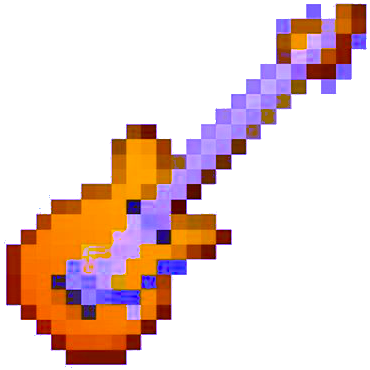
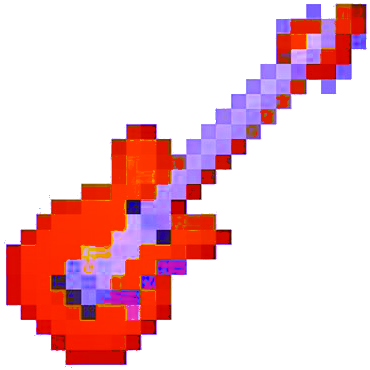
Note prefab is red with unlocked guitar, blue otherwise. Zombie takes damage based on the guitarDmg variable stored in PlayerControl script which is accessed in ZombieBehaviour. Collison with Zombie now hurts the player and knocks back, need to program the actual zombie attack still and then I sugge

diff --git a/Go Johnny Go/Assets/Scripts/PlayerControl.cs b/Go Johnny Go/Assets/Scripts/PlayerControl.cs
@@ -38,8 +38,6 @@ public class PlayerControl : MonoBehaviour {
 	public int health;
 	private int MAX_HEALTH;
 	public int guitarType;
-	public int playerDmg;
-
 
 	public float knockback;
 	public float knockbackLength;
@@ -56,8 +54,10 @@ public class PlayerControl : MonoBehaviour {
 	private Image healthUI;
 
 	private SpriteRenderer guitar_renderer;
+	private SpriteRenderer note_renderer;
 	public Sprite guitarA;
 	public Sprite guitarB;
+	public int guitarDmg;
 
 	// Use this for initialization
 	void Start () {
@@ -73,13 +73,16 @@ public class PlayerControl : MonoBehaviour {
 		//selecting guitartype for player sprite and damage
 		guitarType = PlayerPrefs.GetInt ("GuitarType");
 		guitar_renderer = guitar.GetComponent<SpriteRenderer> ();
-		if (guitarType == 0) {
-			playerDmg = 1;
-			guitar_renderer.sprite = guitarA;
+		note_renderer = notePrefab.GetComponent<SpriteRenderer> ();
 
+		if (guitarType == 0) {
+			guitar_renderer.sprite = guitarA;
+			guitarDmg = 1;
+			note_renderer.color = Color.blue;
 		} else {
-			playerDmg = 2;
 			guitar_renderer.sprite = guitarB;
+			guitarDmg = 2;
+			note_renderer.color = Color.red;
 		}
 	}
 	
@@ -129,7 +132,7 @@ public class PlayerControl : MonoBehaviour {
 			//myAnimator.SetTrigger ("strum");
 			guitar.GetComponentInChildren<ParticleSystem>().Emit(500);
 			//guitar.GetComponent<ParticleSystem>().Emit(500);
-			StrumNote (0);
+			StrumNote ();
 		}
 		if (isGrounded && jump) {
 			isGrounded = false;
@@ -174,8 +177,9 @@ public class PlayerControl : MonoBehaviour {
 		}
 	}
 
-	public void StrumNote(int value){
+	public void StrumNote(){
 		GameObject temp = (GameObject)Instantiate (notePrefab, guitar.GetComponentInChildren<ParticleSystem>().transform.position, Quaternion.identity);
+
 		if (facingRight) {
 			temp.GetComponent<notes> ().Initialize(Vector2.right);
 		} else {

diff --git a/Go Johnny Go/Assets/Black Knight/ZombieBehaviour.cs b/Go Johnny Go/Assets/Black Knight/ZombieBehaviour.cs
@@ -133,11 +133,23 @@ public class ZombieBehaviour : MonoBehaviour {
 	}
 
 	void OnTriggerEnter2D(Collider2D other){
+		PlayerControl playerScript = FindObjectOfType<PlayerControl>();
+		UnityStandardAssets._2D.LevelManager levelManager = FindObjectOfType<UnityStandardAssets._2D.LevelManager>();
 		if (other.tag == "Note" && health > 0) {
-			TakeDamage (1);
+			TakeDamage (playerScript.guitarDmg); //default case
 			Destroy (other.gameObject);
 		} else if (other.tag == "Player") {
-			// do damage to player
+			playerScript.health -= damage; //player loses health based on zombie damage
+			if (playerScript.health <= 0) {
+				levelManager.RespawnPlayer ();
+			} else {
+				playerScript.knockbackCount = playerScript.knockbackLength;
+				if (other.transform.position.x < transform.position.x) {
+					playerScript.knockFromRight = true;
+				} else {
+					playerScript.knockFromRight = false;
+				}
+			}
 		}
 	}
 

diff --git a/Go Johnny Go/Assets/Shop Screen/ShopControlScript.cs b/Go Johnny Go/Assets/Shop Screen/ShopControlScript.cs
@@ -18,7 +18,7 @@ public class ShopControlScript : MonoBehaviour {
 
 	// Use this for initialization
 	void Start () {
-		guitar_b_price = 1;
+		guitar_b_price = 2;
 		moneyAmount = PlayerPrefs.GetInt("MoneyAmount");
 		guitarBought = PlayerPrefs.GetInt ("GuitarB_Bought") == 1 ? true : false;
 		setBought (guitarBought);
